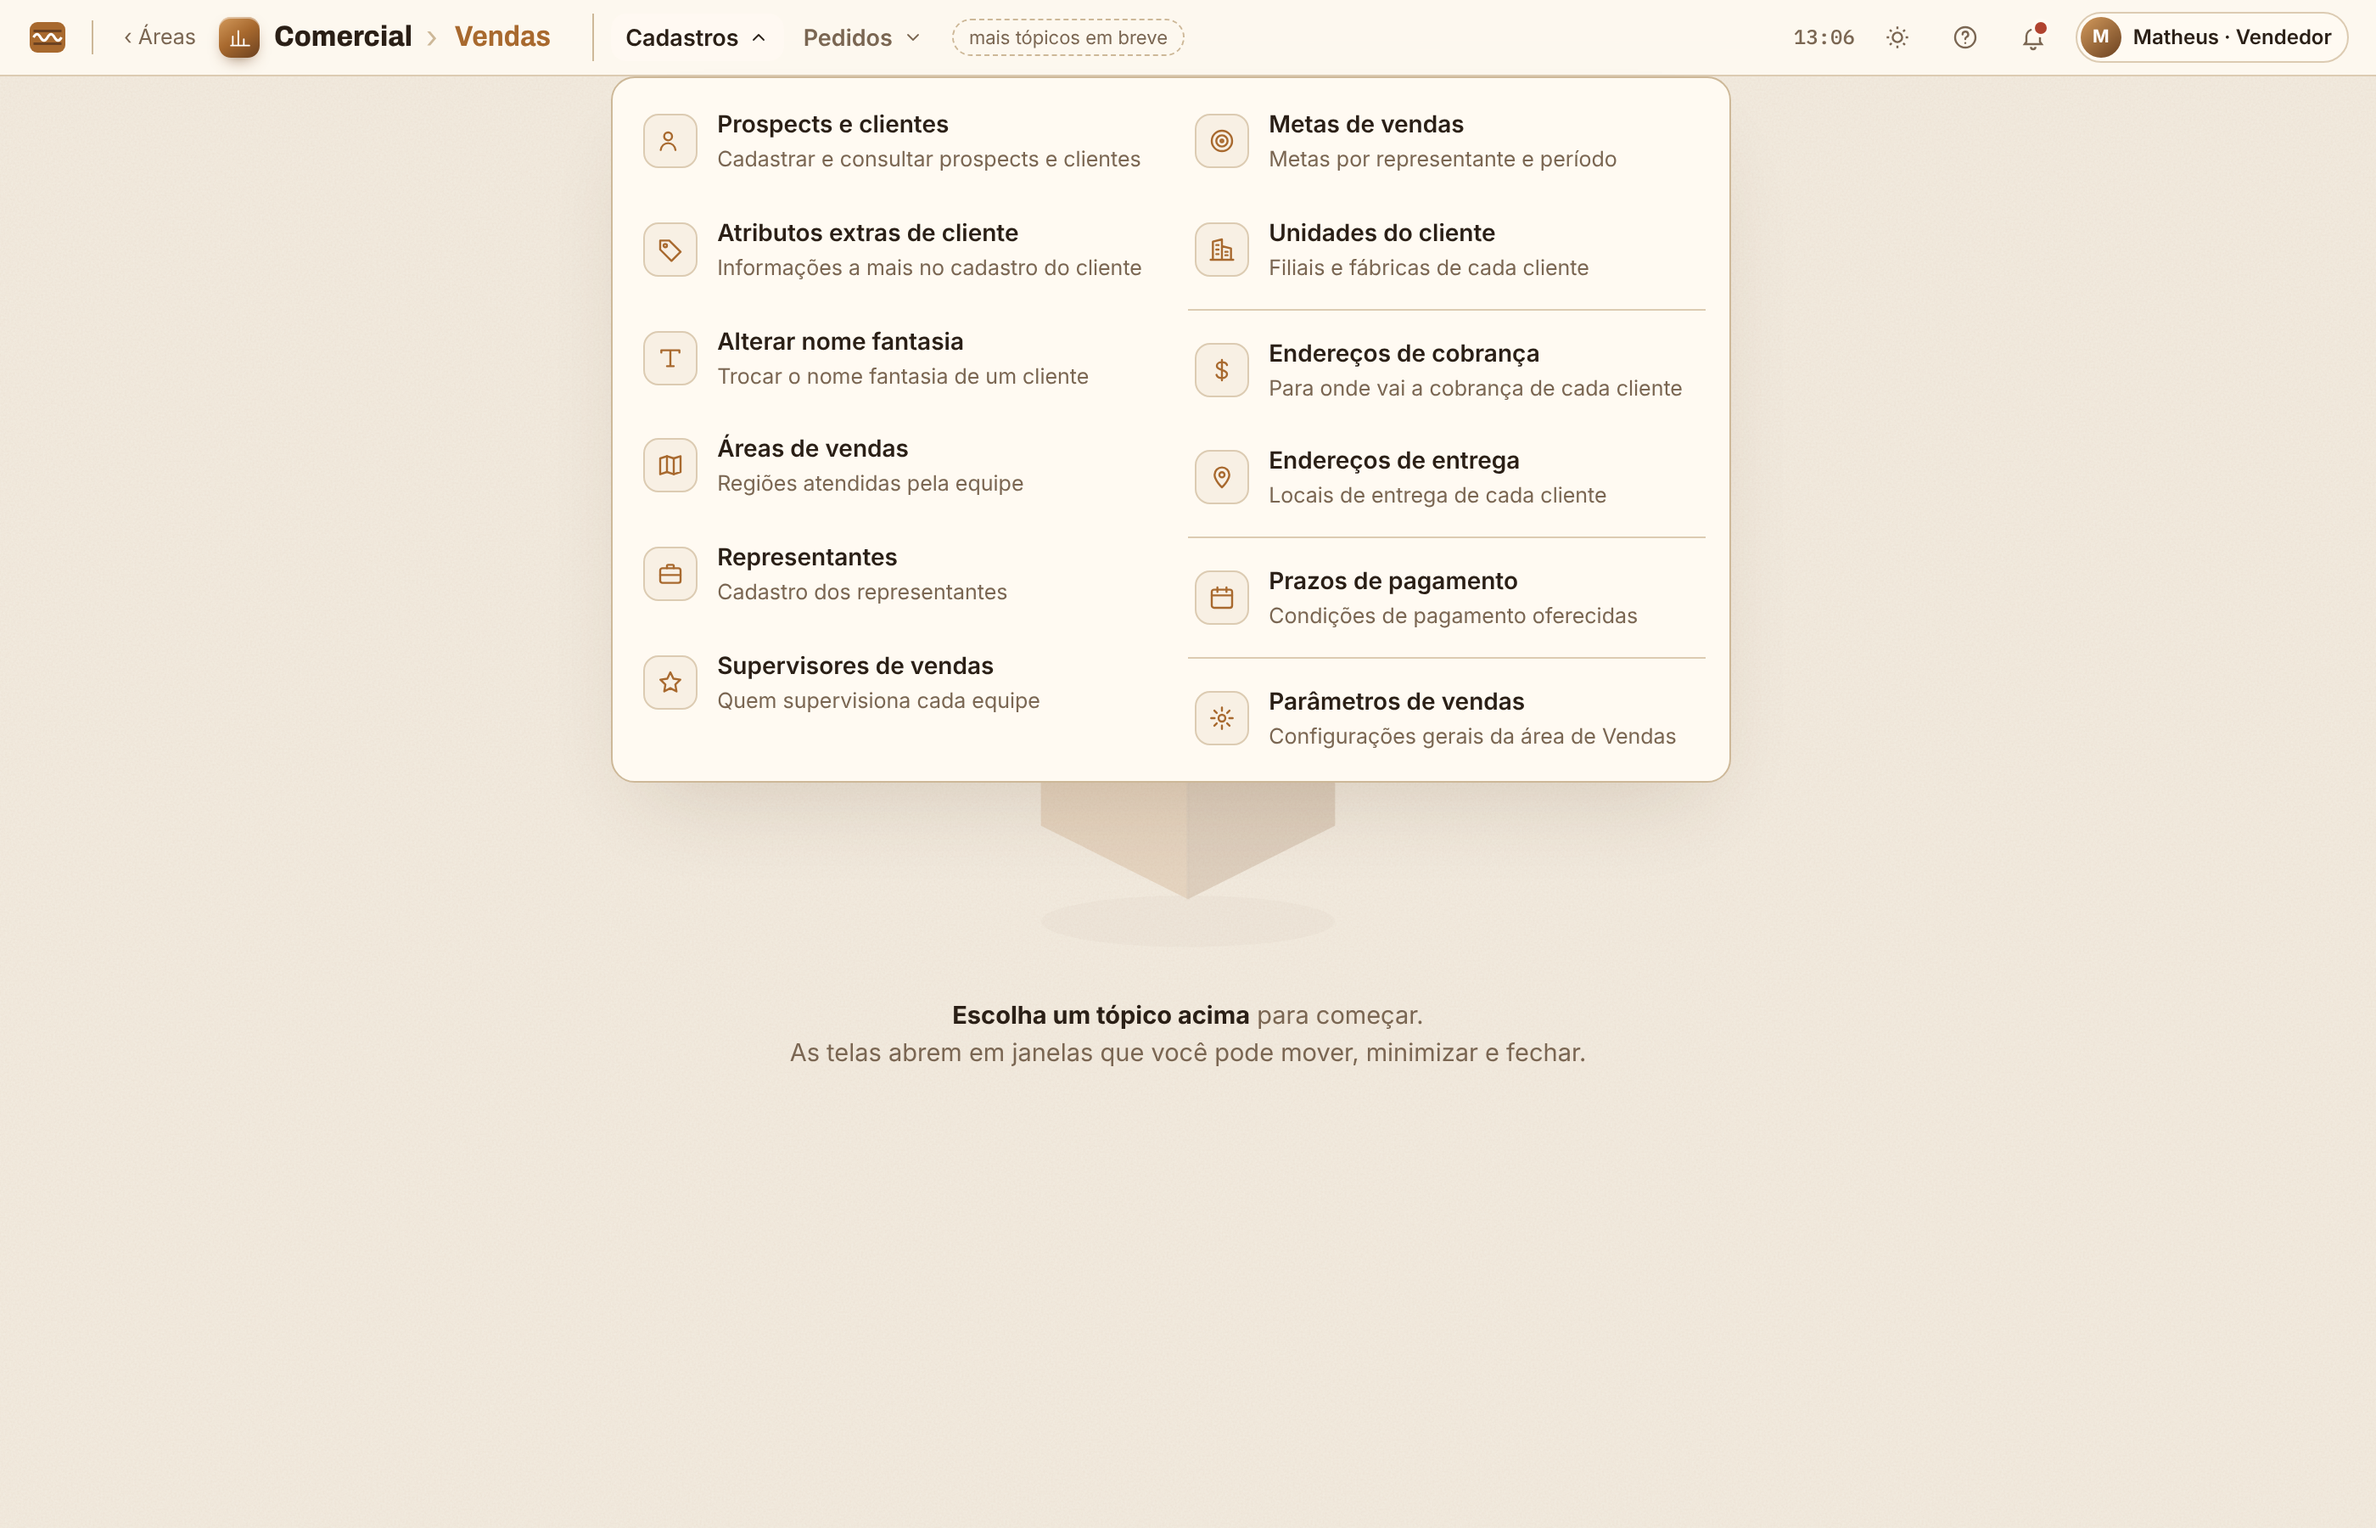
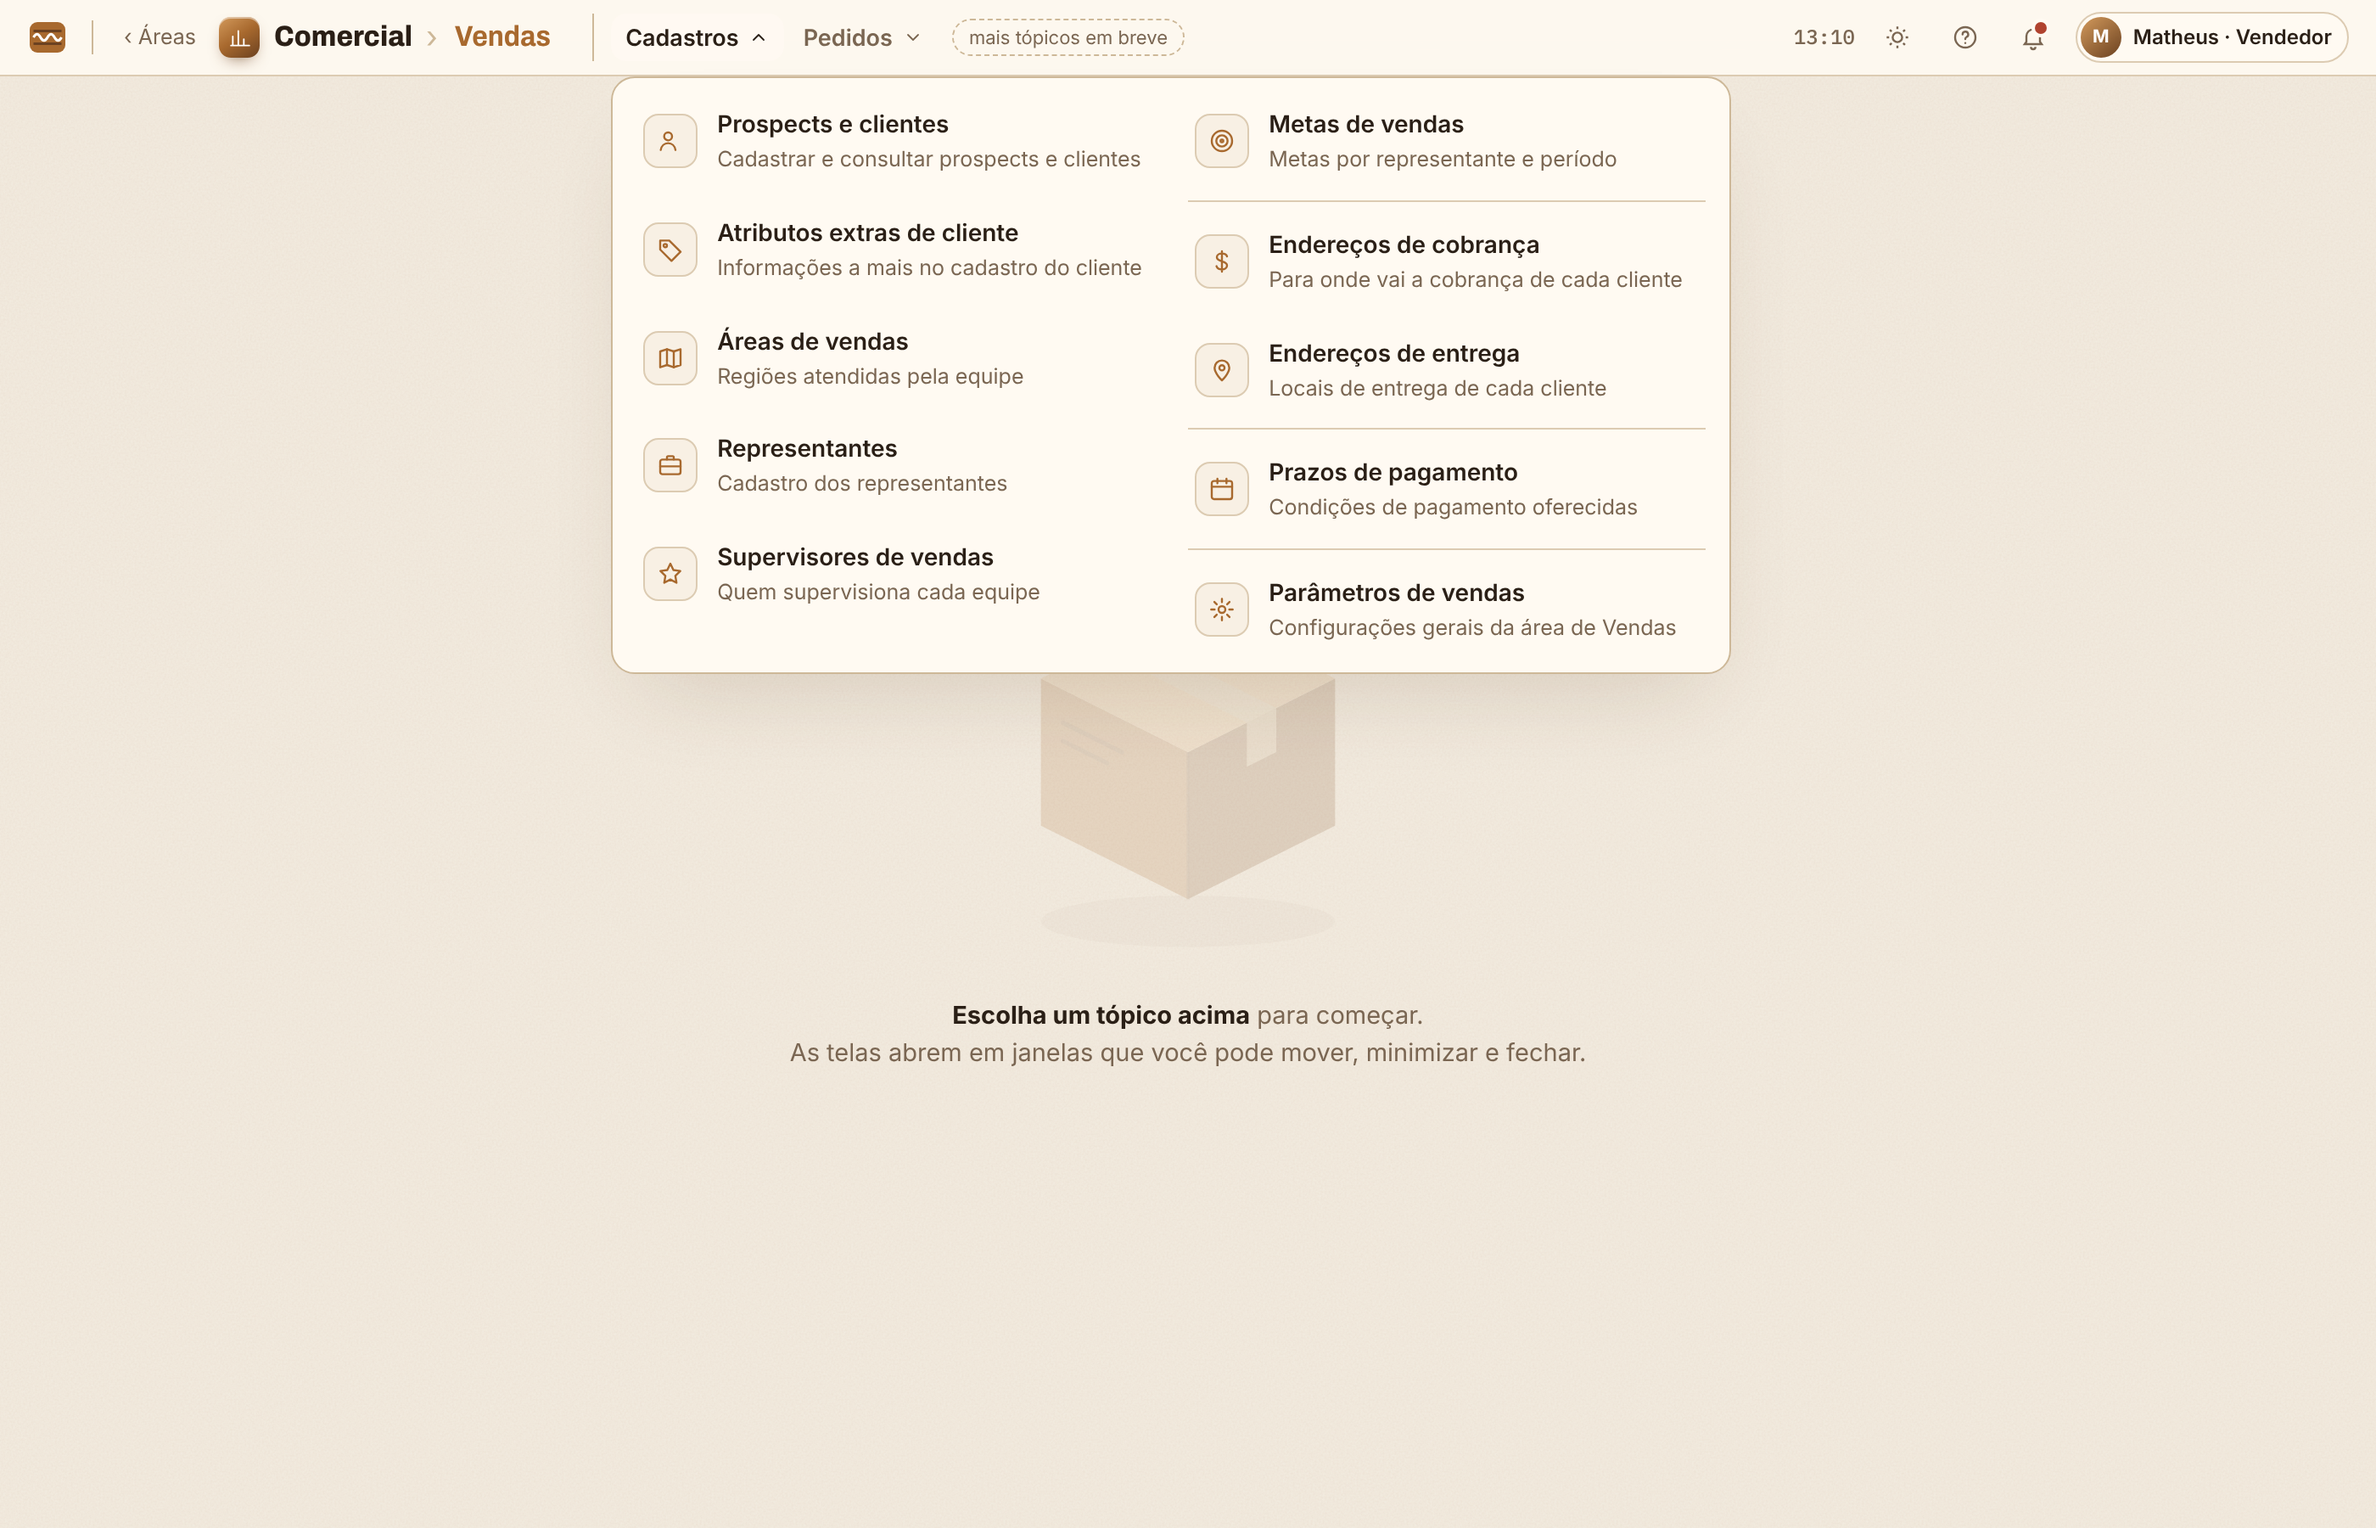
Unidades do cliente e Alterar nome fantasia vão para dentro da ficha do cliente
Claude-Session: https://claude.ai/code/session_015kL8p4eCaL1huCADCSMStj

diff --git a/prototipo/tela-inicial-e-comercial.html b/prototipo/tela-inicial-e-comercial.html
@@ -1724,12 +1724,10 @@ const TOPICOS = {
     { nome:'Cadastros', itens:[
       { ic:'pessoa', t:'Prospects e clientes', d:'Cadastrar e consultar prospects e clientes' },
       { ic:'etiqueta', t:'Atributos extras de cliente', d:'Informações a mais no cadastro do cliente' },
-      { ic:'texto', t:'Alterar nome fantasia', d:'Trocar o nome fantasia de um cliente' },
       { ic:'mapa', t:'Áreas de vendas', d:'Regiões atendidas pela equipe' },
       { ic:'maleta', t:'Representantes', d:'Cadastro dos representantes' },
       { ic:'estrela', t:'Supervisores de vendas', d:'Quem supervisiona cada equipe' },
       { ic:'alvo', t:'Metas de vendas', d:'Metas por representante e período' },
-      { ic:'predio', t:'Unidades do cliente', d:'Filiais e fábricas de cada cliente' },
       { sep:true },
       { ic:'cifrao', t:'Endereços de cobrança', d:'Para onde vai a cobrança de cada cliente' },
       { ic:'local', t:'Endereços de entrega', d:'Locais de entrega de cada cliente' },

diff --git a/README.md b/README.md
@@ -161,9 +161,8 @@ do sistema (com IA) respeitando o que cada usuário pode acessar.
 
 ### Comercial › Vendas (tópicos definidos até agora)
 - **Cadastros** (baseado no menu do sistema atual), em grupos:
-  - Prospects e clientes · Atributos extras de cliente · Alterar nome fantasia ·
-    Áreas de vendas · Representantes · Supervisores de vendas · Metas de vendas ·
-    Unidades do cliente
+  - Prospects e clientes · Atributos extras de cliente · Áreas de vendas ·
+    Representantes · Supervisores de vendas · Metas de vendas
   - Endereços de cobrança · Endereços de entrega
   - Prazos de pagamento
   - Parâmetros de vendas
@@ -171,6 +170,8 @@ do sistema (com IA) respeitando o que cada usuário pode acessar.
   prospect e cliente**): Assuntos, Grupo de empresas, Segmento econômico, Meios de
   comunicação, Tipos de bloqueio na entrega, Nosso prazo × prazo do cliente, Motivos de
   alteração de data de entrega / quantidade do pedido.
+- Também ficam **dentro da ficha do prospect/cliente** (decidido): **Unidades do cliente**
+  e **Alterar nome fantasia**. Ideia: tudo que é de um cliente específico fica na ficha dele.
 - Listas de tópicos com mais de 8 itens abrem em **duas colunas**, para caber na tela.
 - **Pedidos:** Consultar pedidos; Imprimir pedidos; Alterar pedidos.
 - Outros tópicos serão acrescentados conforme forem definidos.
